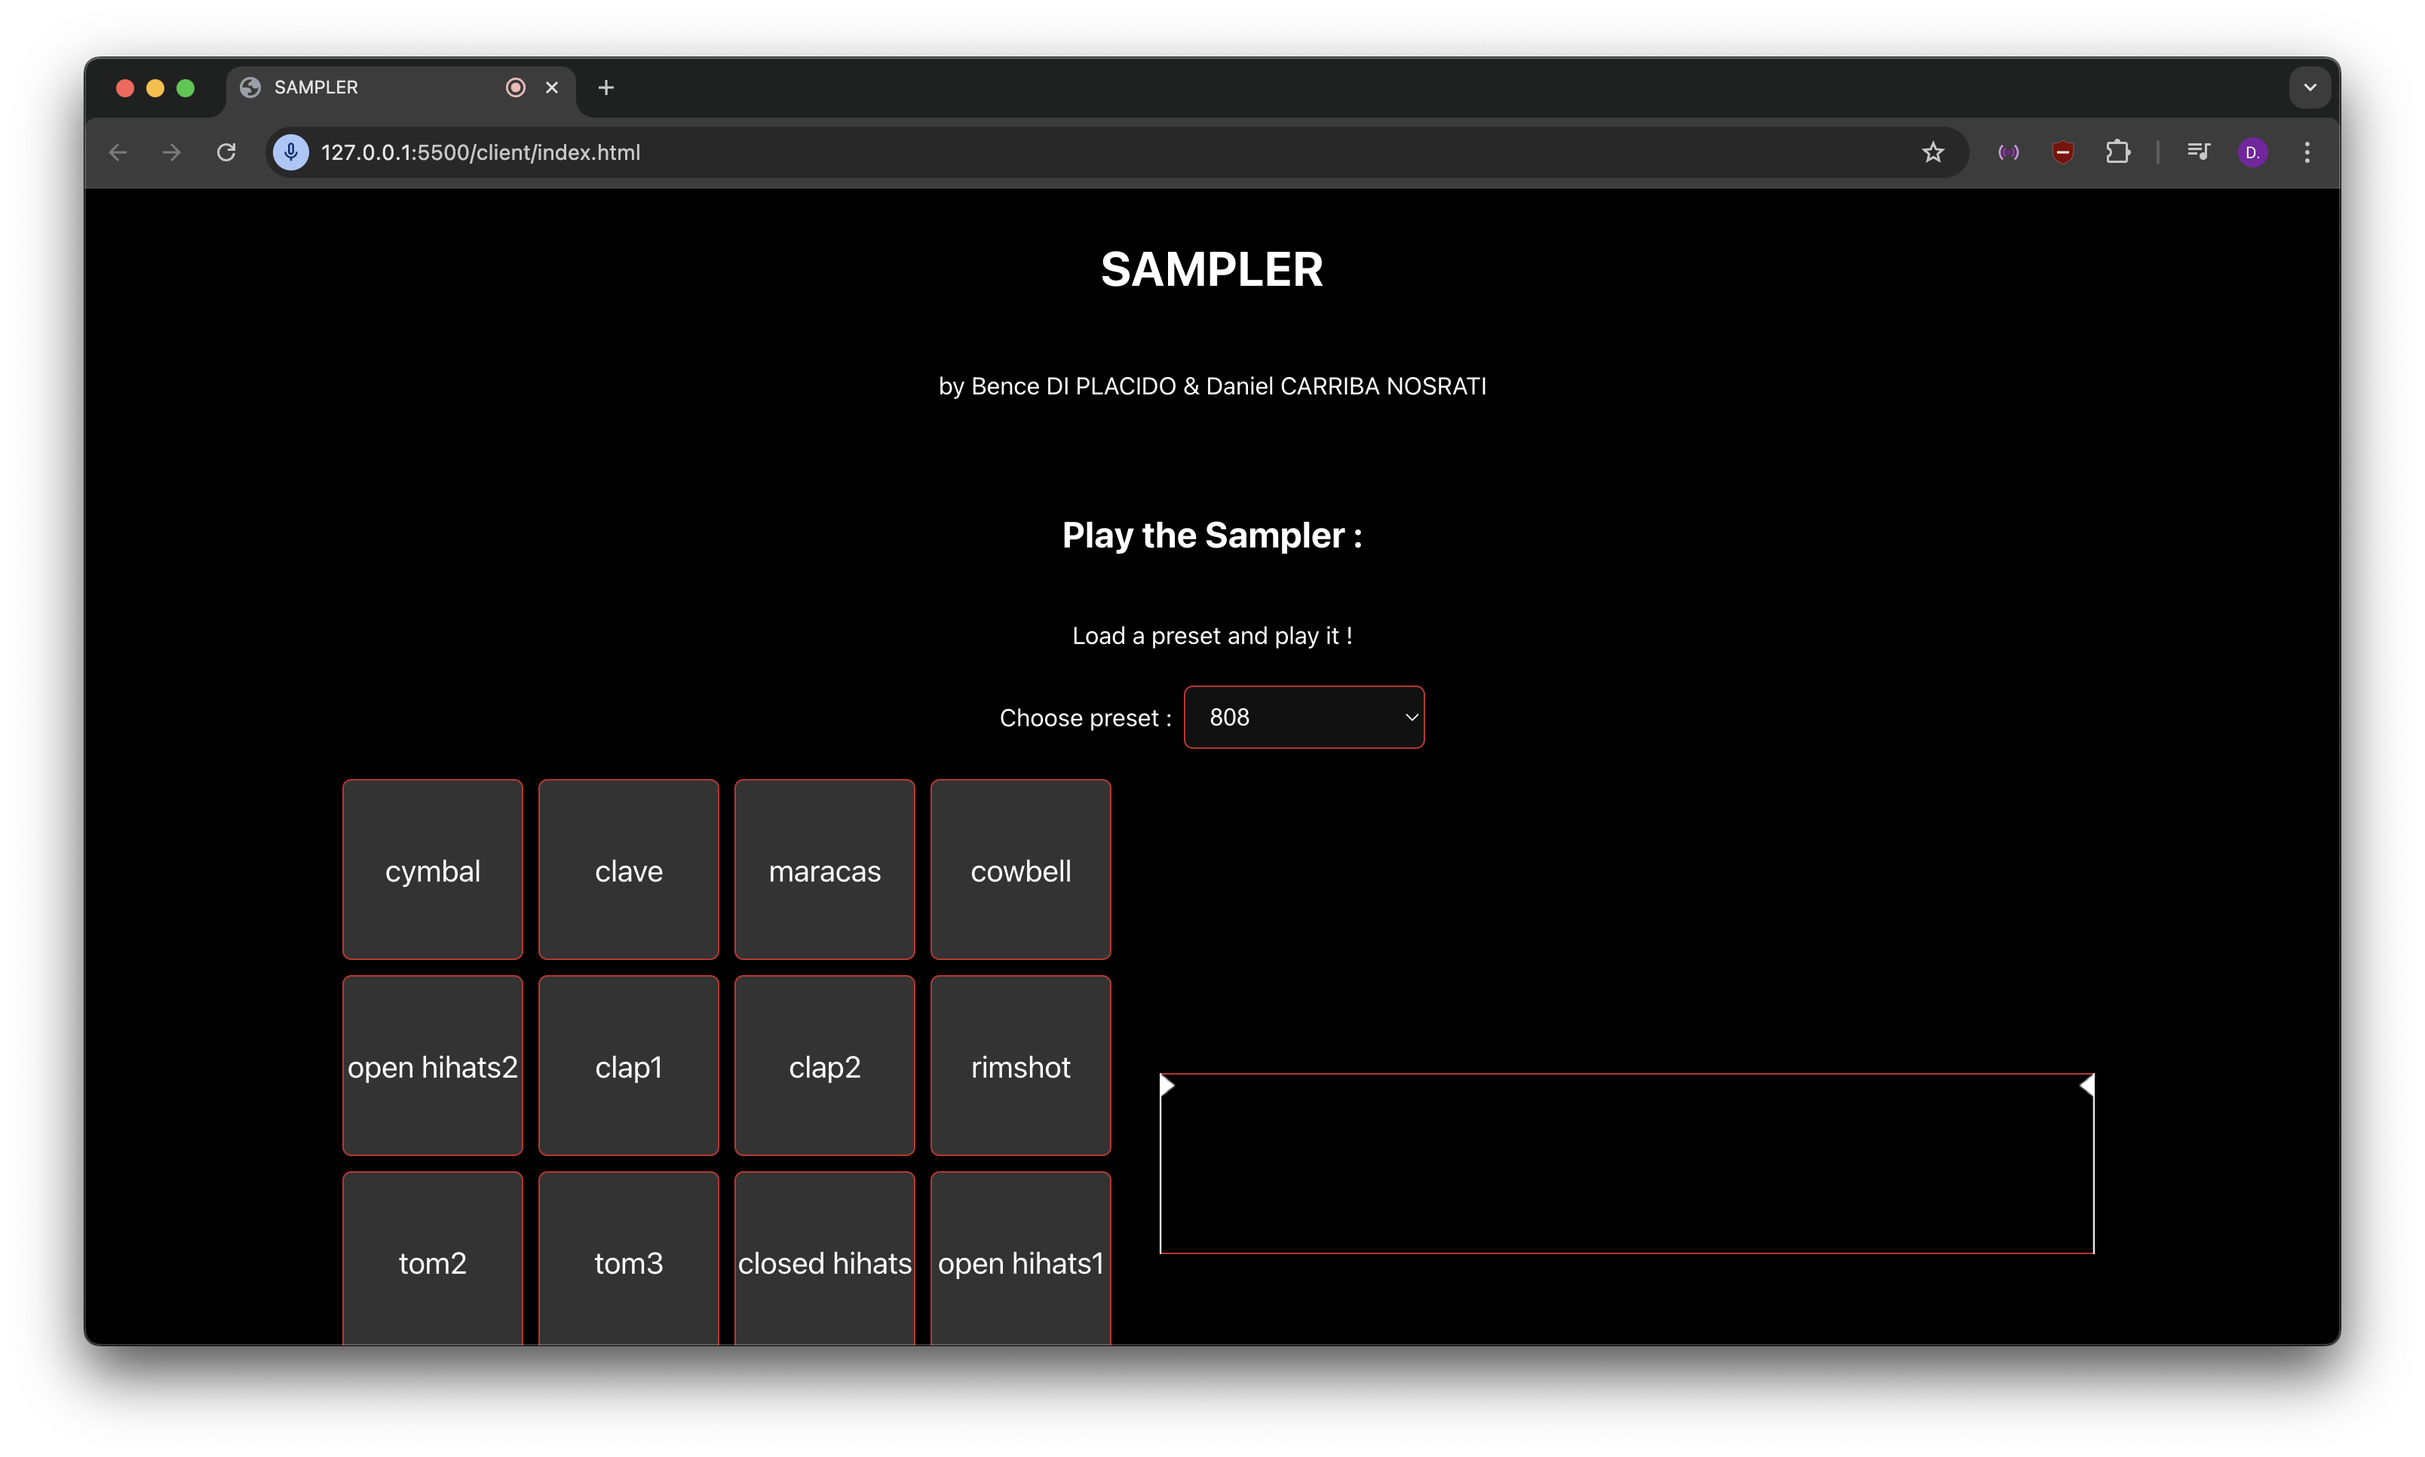
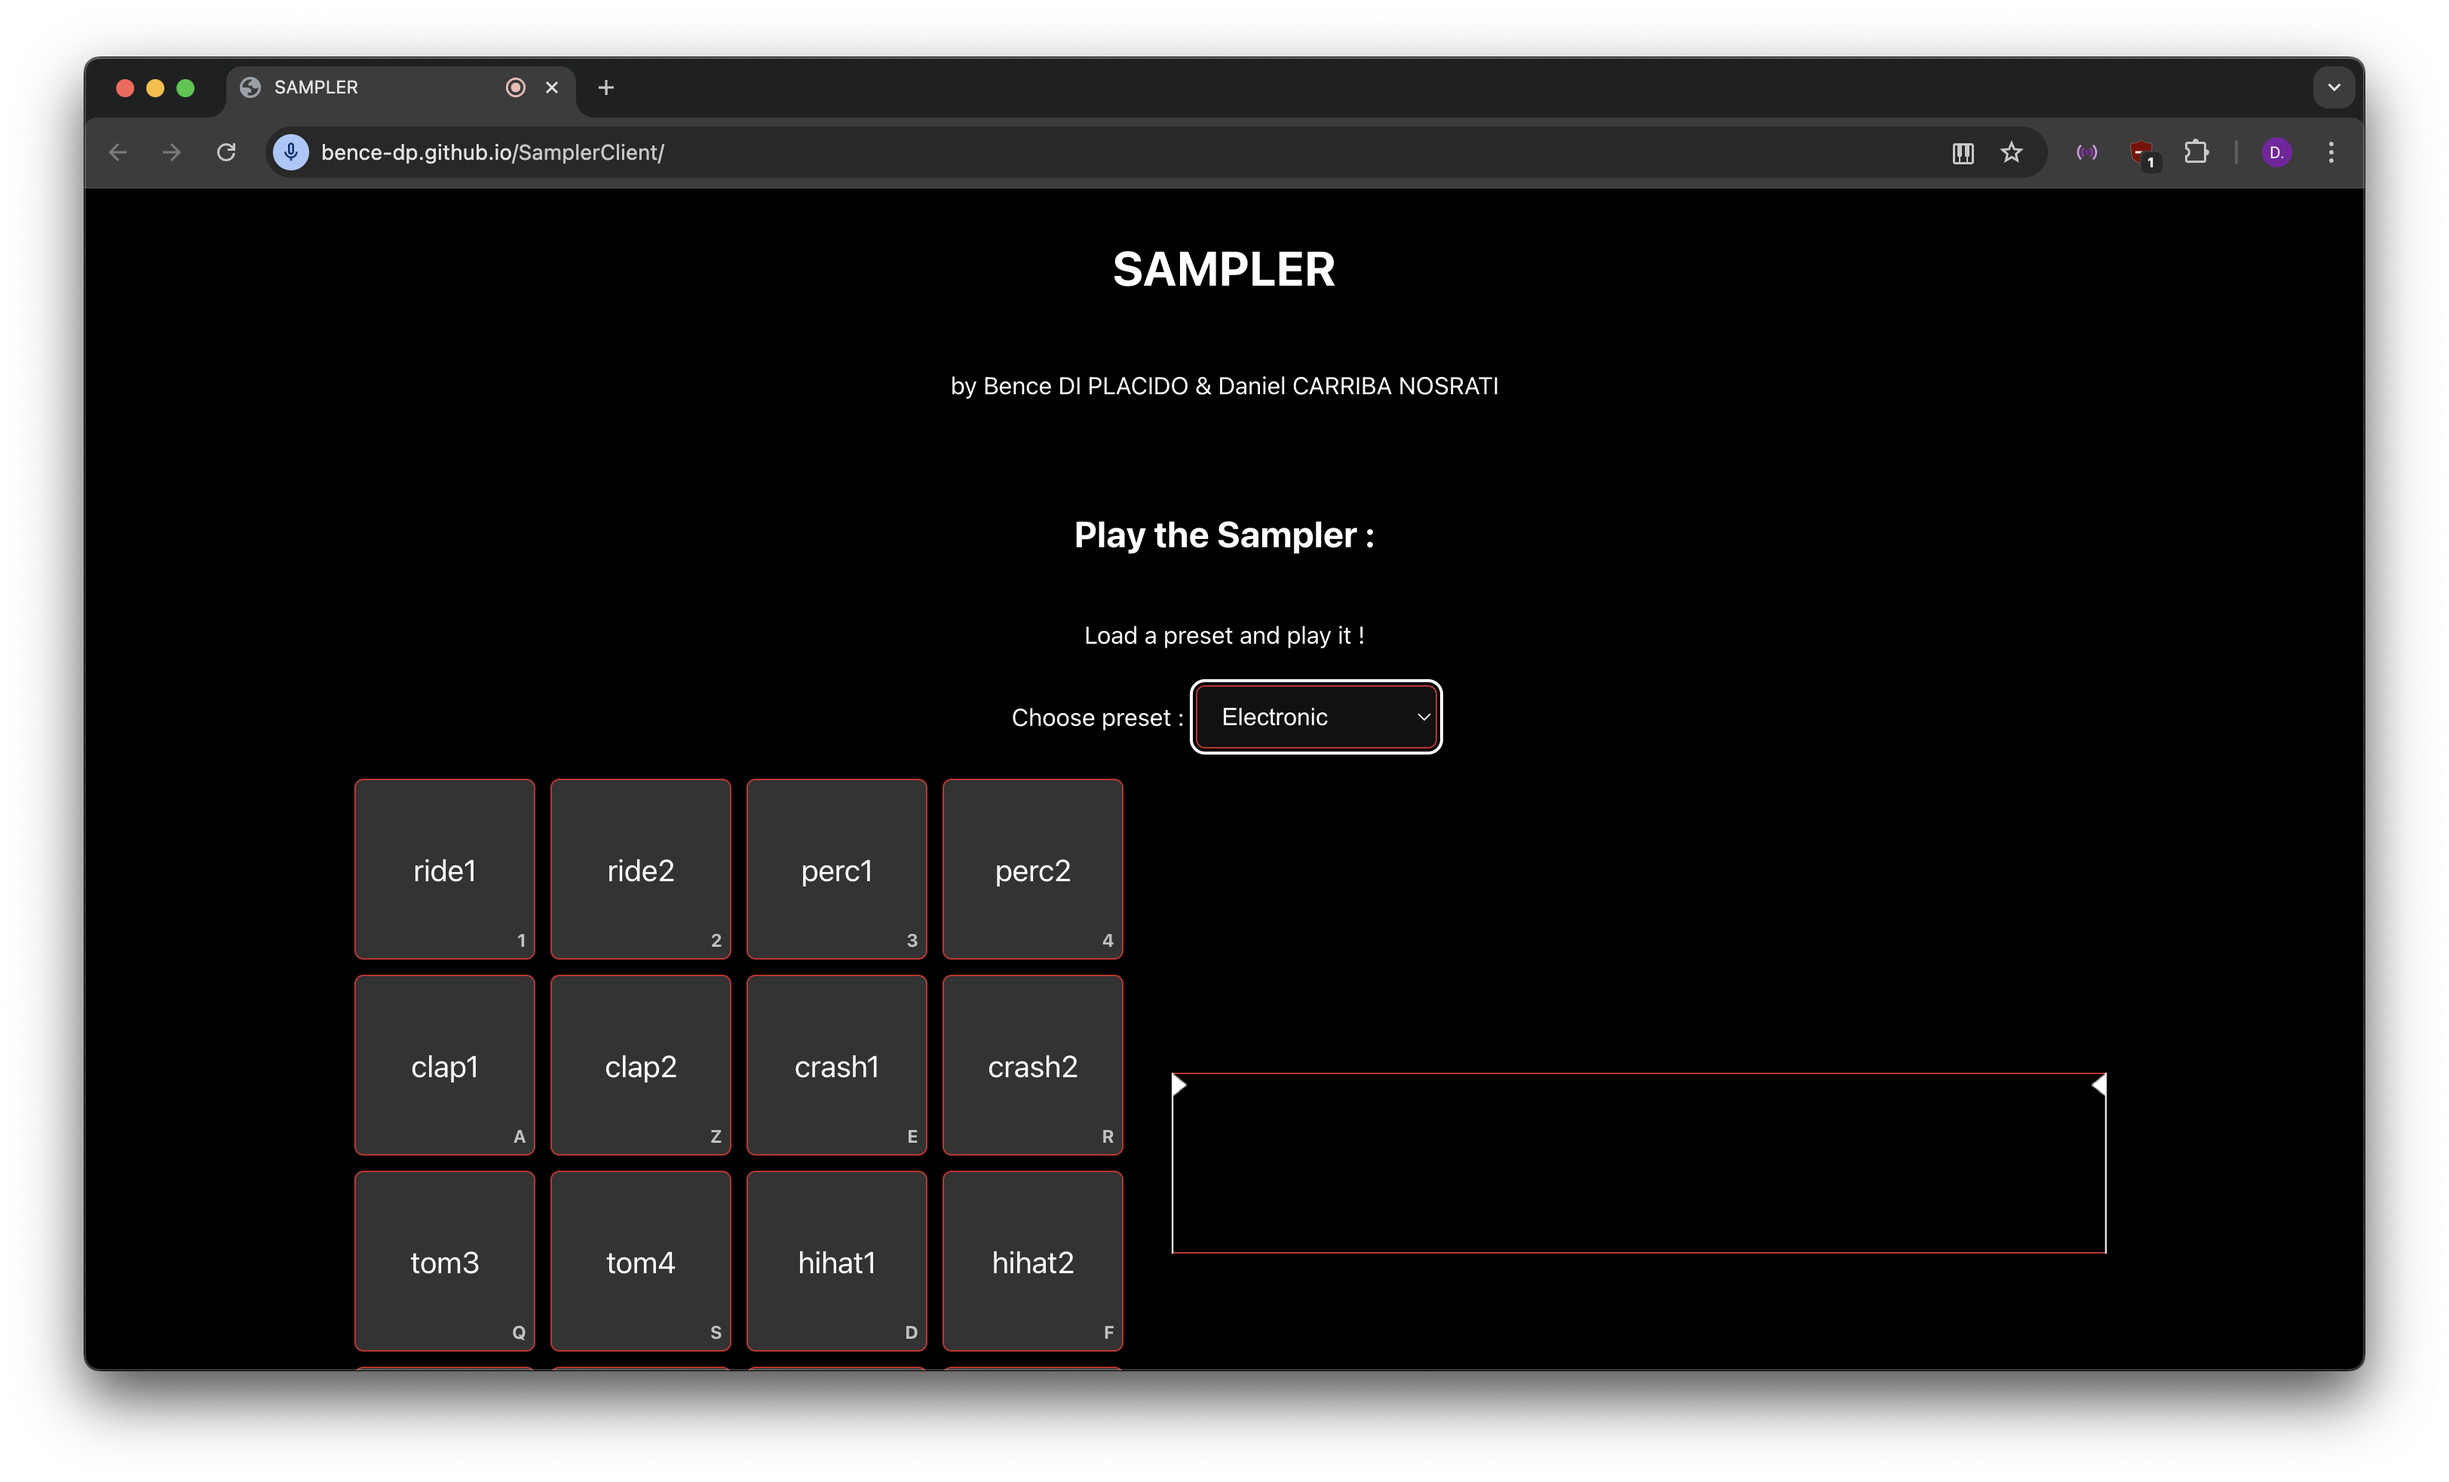
README.md

diff --git a/README.md b/README.md
@@ -4,6 +4,8 @@ This Sampler project was made for the Web course at Université Côte d'Azur.
 
 ![Picture 1](.readme-src/img/01.png)
 
+![Picture 14](.readme-src/img/14.png)
+
 ## Authors
 
 - Bence DI PLACIDO
@@ -11,22 +13,35 @@ This Sampler project was made for the Web course at Université Côte d'Azur.
 
 This project was made using the slides and the provided examples from Michel BUFFA.
 
-## Requirements
+<!-- ## Requirements
 
-- [Node.js](https://nodejs.org/) is required to run the server.
+- [Node.js](https://nodejs.org/) is required.
 
 ## Clone the repository
 
 ```bash
 git clone https://github.com/Bence-dp/Sampler.git
 cd Sampler
-```
+``` -->
 
-## How to use
+## Content
 
-To run the project, first run the server using [Node.js](https://nodejs.org/), and then run the client (with [Live Server for Visual Studio Code](https://marketplace.visualstudio.com/items?itemName=ritwickdey.LiveServer) for example)
+- the `client/` directory contains the sampler client website.
+- the `server/` directory contains the server, i.e. the back-end, of the project.
+- the `preset-manager/` directory contains an Angular app to manage the sampler presets. 
+
+<!-- ## How to use
+
+To run the project, first run the server using [Node.js](https://nodejs.org/), and then run the client (with [Live Server for Visual Studio Code](https://marketplace.visualstudio.com/items?itemName=ritwickdey.LiveServer) for example).
+
+You can also run the `Sampler Preset Manager` Angular app, to view, edit, add and delete the sampler's presets, as well as their samples.
 
 ### Run the server
+
+The server is running on https://samplerserver.onrender.com/
+
+To run it locally:
+
 ```bash
 cd server
 npm i
@@ -35,11 +50,16 @@ npm run dev
 
 ### Run the client
 
+You may run the client with [Live Server for Visual Studio Code](https://marketplace.visualstudio.com/items?itemName=ritwickdey.LiveServer) or any other local development server.
+
+To run the client with [Live Server for Visual Studio Code](https://marketplace.visualstudio.com/items?itemName=ritwickdey.LiveServer):
+
 ```bash
 cd client
+code .
 ```
 
-You may run the client with [Live Server for Visual Studio Code](https://marketplace.visualstudio.com/items?itemName=ritwickdey.LiveServer) or any other local development server.
+then `Right Click` on `index.html` and select `Open with Live Server`.
 
 ### Run the `Sampler Preset Manager` Angular app
 
@@ -47,11 +67,34 @@ You may run the client with [Live Server for Visual Studio Code](https://marketp
 cd preset-manager
 npm i
 ng serve
-```
+``` -->
+
+## How to use
+
+### The Sampler client (in `client/`)
+
+The sampler website is running on the following url:
+
+https://bence-dp.github.io/SamplerClient/
+
+### The Back-end (in `server/`)
+
+The Back-end of the project is running on [Render](https://render.com/) on the following url: 
+
+https://samplerserver.onrender.com/
+
+### The `Sampler Preset Manager` Angular app (in `preset-manager/`)
+
+The `Sampler Preset Manager` Angular app is running on the following url:
+
+https://bence-dp.github.io/SamplerPresetManager/#/home
+
 
 ## Implemented features
 
-### The Sampler
+### The Sampler client (in `client/`)
+
+#### The Sampler
 
 - A sampler containing multiple presests
 
@@ -62,9 +105,9 @@ ng serve
 
 ![Picture 3](.readme-src/img/03.png)
 
-### Recorder to add new audio samples
+#### Recorder to record new audio samples
 
-Example showing how to add a new audio sample :
+Example showing how to record and add a new audio sample :
 
 1) Click on `Record` to start recording your audio sample, and `Stop` to stop the recording.
 
@@ -88,7 +131,21 @@ Example showing how to add a new audio sample :
 
 ![Picture 11](.readme-src/img/11.png)
 
-### Responsive layout
+#### Keyboard support
+
+- You can play the sampler using the keyboard keys: 1, 2, 3, 4, A, Z, E, R, Q, S, D, F, W, X, C, V.
+
+- Works on either QWERTY or AZERTY keyboards.
+
+![Picture 15](.readme-src/img/15.png)
+
+#### MIDI support
+
+- Has MIDI support
+
+![Picture 16](.readme-src/img/16.png)
+
+#### Responsive layout
 
 The website has a responsive layout when resizing the window.
 
@@ -97,3 +154,13 @@ The website has a responsive layout when resizing the window.
 ![Picture 12](.readme-src/img/12.png)
 
 ![Picture 13](.readme-src/img/13.png)
+
+### The Back-end (in `server/`)
+
+The Back-end of the project is running on [Render](https://render.com/) on the following url: 
+
+https://samplerserver.onrender.com/
+
+### The `Sampler Preset Manager` Angular app (in `preset-manager/`)
+
+
